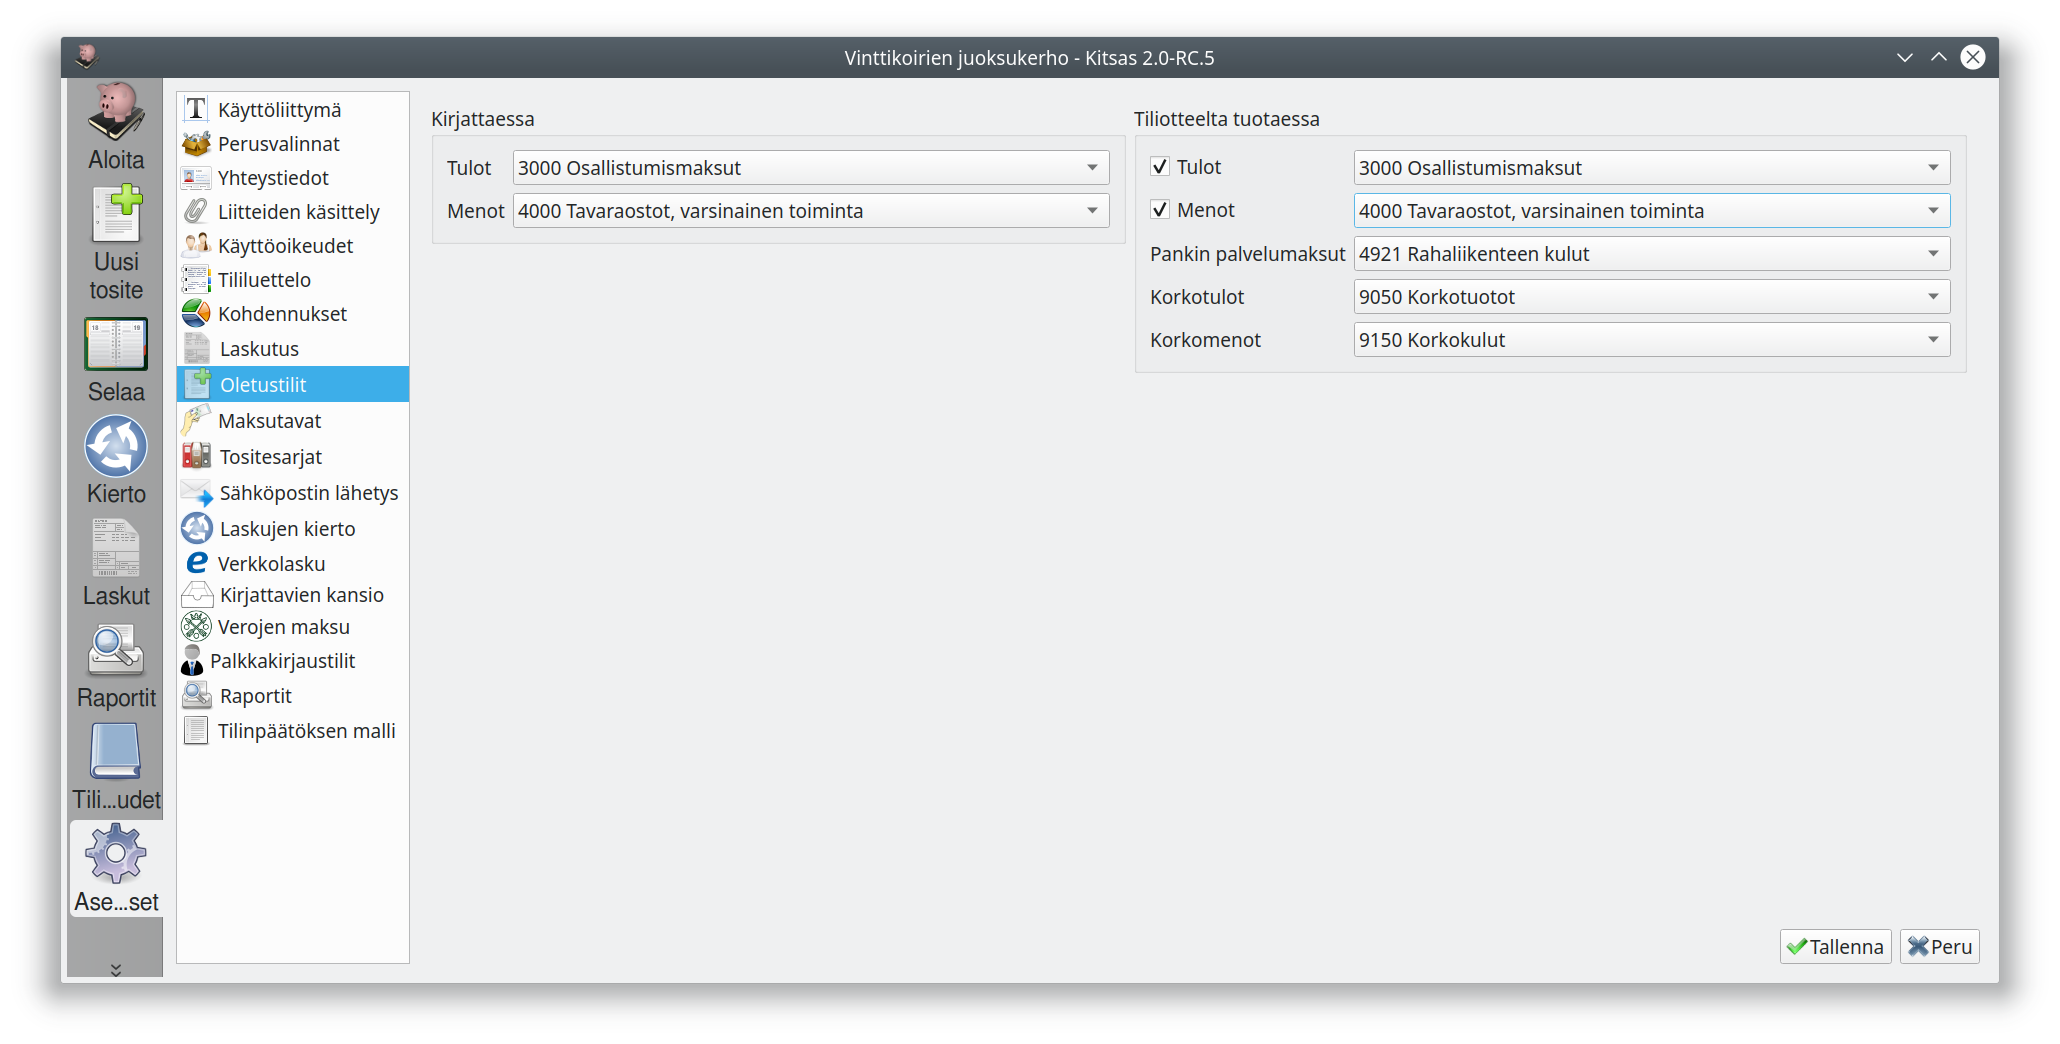
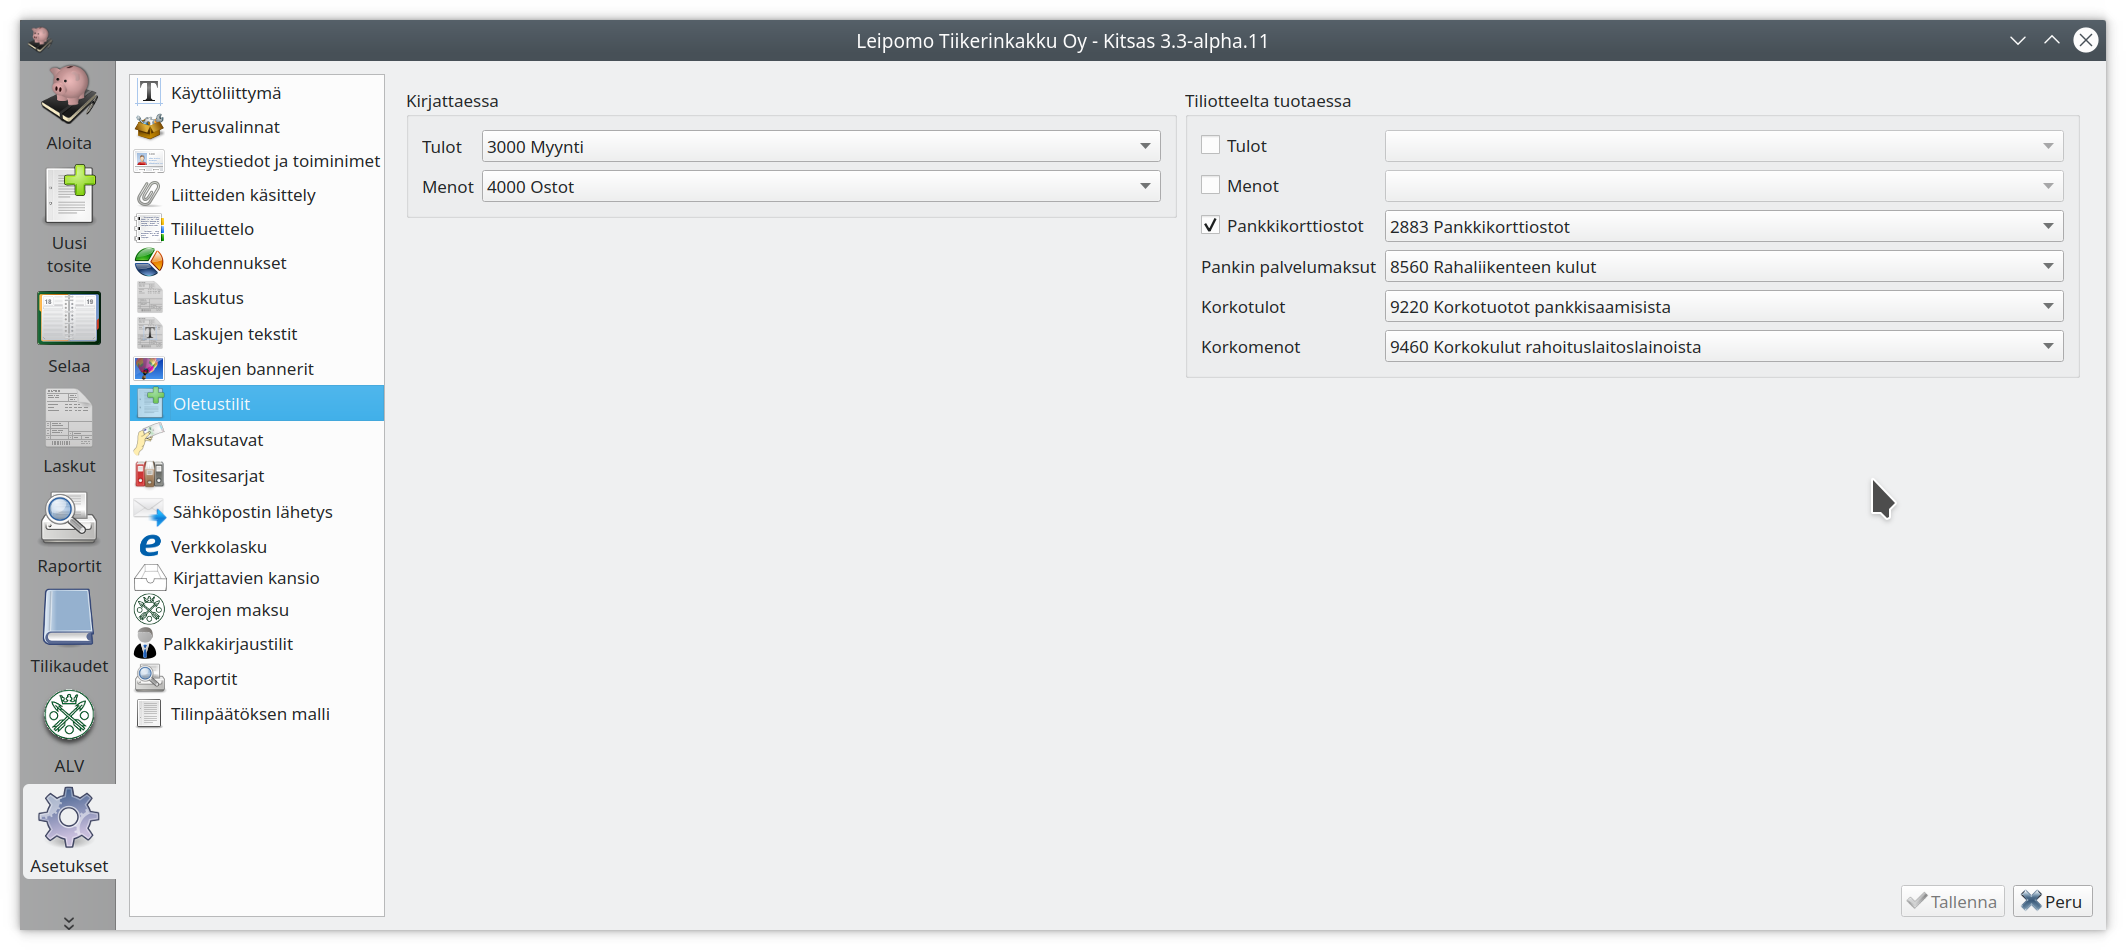
3.3

Changed region(s): [[0.0, 0.0, 0.9942, 1.0], [0.8699, 0.5189, 0.901, 0.5495]]

diff --git a/content/fi/_index.html b/content/fi/_index.html
@@ -6,9 +6,9 @@ linkTitle = "Kitsas"
 
 {{< blocks/cover title="Ystävällinen kirjanpitäjäsi" image_anchor="top" height="min" color="dark" >}}
 
-<div class="mx-auto">	
+<div class="mx-auto">
 	<a class="btn btn-lg btn-primary mr-3 mb-4" href="lataa">
-		Lataa Kitsas maksutta<i class="fab fa-windows ml-2 "></i><i class="fab fa-apple ml-2 "></i><i class="fab fa-linux ml-2 "></i>		
+		Lataa Kitsas maksutta<i class="fab fa-windows ml-2 "></i><i class="fab fa-apple ml-2 "></i><i class="fab fa-linux ml-2 "></i>
 	</a>
 	<p class="lead">Kitsas on ilmainen, kun tallennat kirjanpidon omalle koneellesi.<br/>
 	Pilvitallennus, käyttäjätuki ja lisäominaisuudet edullisena vuositilauksena.</p>
@@ -38,10 +38,10 @@ Kitsaasta löytyy myös tilikartta asunto-osakeyhtiöille ja vastikkeiden laskut
 
 {{< blocks/section color="white">}}
 
-	
+
 {{< nosto title="Eroon mapeista" image="kannettava" >}}
 Kitsas käsittelee ja arkisto sähköiset tositteet
-{{</nosto>}}		
+{{</nosto>}}
 
 {{< nosto title="Laskuta" image="lasku">}}
 Kitsaassa on sisäänrakennettu laskutus
@@ -77,6 +77,7 @@ Kitsaan ohjattu toiminto laskee poistot ja jaksotukset sekä muodostaa lopuksi v
 	<li><i class="fa fa-check"></i> Ostolaskujen kierrätys ja laskutusportaali</li>
 	<li><i class="fa fa-check"></i> WebKitsas</li>
 	<li><i class="fa fa-check"></i> Käyttäjätuki sähköpostilla</li>
+	<li><i class="fa fa-check"></i> Tilitietojen noutaminen suoraan pankista</li>
 </ul>
 		<a class="btn btn-lg btn-primary mr-3 mb-4" href="hinnat">
 		Katso hinnat
@@ -92,5 +93,5 @@ Kitsaan ohjattu toiminto laskee poistot ja jaksotukset sekä muodostaa lopuksi v
 	<h1 class="text-center">Uutta Kitsaassa</h1>
 </div>
 {{<recent_posts>}}
-{{<uutiskirje>}} 
+{{<uutiskirje>}}
 {{< /blocks/section >}}

diff --git a/content/fi/docs/asetukset/tilitapahtumat.md b/content/fi/docs/asetukset/tilitapahtumat.md
@@ -1,0 +1,56 @@
+---
+title: "Tilitapahtumien hakeminen pankista"
+linkTitle: "Tilitapahtumien hakeminen"
+weight: 155
+description: >
+  Päivittäinen tilitapahtumien noutaminen pankista PSD2-yhteydellä
+---
+
+<div class="cloud-only">
+  <i class="fa fa-cloud"></i> Ominaisuus on käytettävissä vain, kun kirjanpito on tallennettu Kitsaan pilveen <br/>
+  <i class="fa fa-gem"></i> Toiminto on lisämaksullinen hintaan 4,96 € kuukaudessa
+</div>  
+
+Edellisen päivän tilitapahtumat haetaan seuraavan aamuyön aikana ja niistä muodostetaan tosite. Viitteelliset maksut kohdennetaan automaattisesti avoimiin laskuihin.
+
+Tilitietojen hakeminen on toteutettu [PSD2-maksupalveludirektiivin](https://www.finanssivalvonta.fi/saantely/saantelykokonaisuudet/psd2/) mukaisena tilitietojen hakemisena, jossa tilitietopalveluiden tarjoana toimii [Nordigen](https://nordigen.com/en/). Toiminto on Kitsaan lisämaksullinen ominaisuus. Useimmat pankit (mm. Nordea ja Osuuspankit) eivät veloita tilin omistajaa PSD2-direktiivin mukaisesta tilitietojen noutamisesta.
+
+{{<alert title="Kokeilujakso ja laskutus">}}
+
+Tilitietojen noutamisen kokeilujakso alkaa ensimmäisestä onnistuneesta tilitapahtumien noutamisesta. Kokeilujakson jälkeen kuukausimaksu veloitetaan niiltä kuukausilta, joina tilitapahtumia noudetaan onnistuneesti (maksua ei siis peritä esimerkiksi kuukausilta, joilla ei ole lainkaan tilitapahtumia).
+
+Lisäpalveluiden käyttö laskutetaan jälkikäteen yhden tai useamman kuukauden ajanjaksolta, viimeistään kuitenkin vuoden lopussa.
+
+{{</alert>}}
+
+![](/img/fi/asetukset/tilitiedot.png)
+
+## Pankkiyhteyden lisääminen
+
+Varmista ennen pankkiyhteyden lisäämistä, että pankkitilille [on määritelty]({{<relref "./tililuettelo">}}) IBAN-numero.
+
+Paina **Lisää pankkiyhteys** ja hyväksy palvelun maksullisuus.
+
+Valitse pankki. Ohjelma näyttää linkin, jota klikkaamalla pääset verkkoselaimella hyväksymään valtuutuksen. Sinut ohjataan Nordigenin palvelun kautta oman pankkisi palveluun, jossa voit valita tilit, joiden tilitapahtumat välitetään Kitsaaseen. Älä sulje selainta ennen kuin saat ilmoituksen tilien lisäämisestä.
+
+### Huomautus Osuuspankin asiakkaille
+
+Ennen kuin voit ottaa tilitietojen hakemisen käyttöön, on pankin asiakaspalvelusta erikseen pyydettävä [käyttöoikeuksien PSD2 tilitietojen hakemiseen](https://www.op.fi/yritykset/digitaaliset-palvelut-yrityksille/ulkopuolisen-palvelutarjoajan-valtuuttaminen) henkilölle, joka aktivoi pankkitunnuksillaan tilitietojen hakemisen.
+
+## Tilitietojen noutaminen
+
+Edellisen päivän tilitiedot noudetaan aina aamuyöllä. Voit myös **Nouda tapahtumia**-napilla hakea aiempia, enintään 90 päivää vanhoja tilitapahtumia.
+
+Ohjelma näyttää luettelon viimeisimmistä tilitapahtumien noutamisista ja mahdollisista virheistä. Klikkaamalla onnistuneen noudon riviä pääset tilitapahtumiin liittyvään tositteeseen.
+
+## Tilitapahtumien käsittely
+
+Kitsas pyrkii kohdentamaan tilitapahtumat mm. viitenumeron perusteella. Ellei ohjelma pysty kohdentamaan kaikkia tilitapahtumia, näytetään aloitussivulla ilmoitus siitä, että kirjanpidossa on käsiteltäviä tiliotteita.
+
+![](/img/fi/asetukset/tilioimatta.png)
+
+Nämä keskeneräiset tiliotteet näkyvät selauksessa punaisella, merkittyinä oranssilla huomiopallolla. Kirjanpito ei täsmää ennen kuin nämä tiliotteet on käsitelty.
+
+## Valtuutuksen uudistaminen
+
+Valtuutus tilitapahtumien hakemiseen on kerrallaan voimassa kolme kuukautta. Ohjelma muistuttaa lähenevästä valtuutuksen vanhenemisesta, jolloin **Uudista valtuutus**-napilla pääset jatkamaan valtuutusta jälleen kolmen kuukauden ajaksi. Sinut ohjataan Nordigenin palvelun kautta omaan verkkopankkiisi samalla tavalla kuin pankkiyhteyttä lisättäessä.

diff --git a/content/fi/hinnat/_index.md b/content/fi/hinnat/_index.md
@@ -32,7 +32,7 @@ Ennen tilauksen tekemistä ehdit siis varmistua, että palvelu todella vastaa od
 
 **Ilmaiseksi** ohjelmaa saa käyttää, kun kirjanpidon tallentaa omalle koneelle. Emme kuitenkaan voi tarjota ilmaiskäyttäjille henkilökohtaista neuvontaa, ja käyttäjän pitää huolehtia itse kirjanpitonsa varmuuskopioinnista.
 
-**Kitsas Kerho** sopii yhdistyksille ja asunto-osakeyhtiöille, joilla ei ole arvonlisäverollista toimintaa. Lisäksi se sopii yrityksille, jotka tallentavat kirjanpidon omalle koneelleen, mutta haluavat hyödyntää tukipalveluita ja sähköistä laskutusta.
+**Kitsas Kerho** sopii yhdistyksille ja asunto-osakeyhtiöille, joilla ei ole arvonlisäverollista toimintaa. 
 
 **Kitsas Firma** tarjoaa myös yrityskäyttäjille kirjanpidon tallentamisen pilveen, jolloin sillä voi olla monta käyttäjää samaan aikaan.
 
@@ -167,6 +167,12 @@ Ennen tilauksen tekemistä ehdit siis varmistua, että palvelu todella vastaa od
       <td class="default"><span class="tick">&#10004;</span></td>
     </tr>       
     <tr>
+      <td>Sähköpostin lähettäminen Kitsaan palvelimen kautta</td>
+      <td></td>
+      <td><span class="tick">&#10004;</span></td>
+      <td class="default"><span class="tick">&#10004;</span></td>
+    </tr>     
+    <tr>
       <td>Kirjanpidon automaattinen varmuuskopiointi</td>
       <td></td>
       <td><span class="tick">&#10004;</span></td>
@@ -187,23 +193,30 @@ Ennen tilauksen tekemistä ehdit siis varmistua, että palvelu todella vastaa od
       <td><span class="tick">&#10004;</span></td>
       <td class="default"><span class="tick">&#10004;</span></td>
     </tr>
+    <tr>
+      <td colspan="4" class="sep"><i class="fa fa-gem"></i> Lisämaksulliset palvelut</td>
+    </tr>
+    <tr>
+      <td>Lisäkirjanpito tallennettuna Kitsaan pilveen (sis. alv)</td>
+      <td> </td>
+      <td><span class="txt-l">3,72</span> <span class="txt-top">&euro;/kk</span></td>
+      <td class="default"><span class="txt-l">3,72</span> <span class="txt-top">&euro;/kk</span></td>
+    </tr>    
+    <tr>
+      <td>Tilitietojen noutaminen pankista (sis. alv), kirjanpitokohtainen</td>
+      <td> </td>
+      <td><span class="txt-l">4,96</span> <span class="txt-top">&euro;/kk</span></td>
+      <td class="default"><span class="txt-l">4,96</span> <span class="txt-top">&euro;/kk</span></td>
+    </tr>        
   </tbody>
 </table>
-
-<p><sup>* </sup> Olemme varanneet kirjanpitoa kohden tallennustilaa 2,5 Gt. Tämä riittää tavanomaisesti noin 10 000 sähköisen tositteen tallentamiseen. Lisätilasta perimme <b>10 €</b>/Gt/vuosi.</p>
+<p>Lisämaksulliset palvelut veloitetaan jälkikäteen 1 - 12 kuukauden jaksoissa niin, että pienin veloitettava summa kesken vuotta on 20 euroa.</p>
+<p><sup>* </sup> Olemme varanneet kirjanpitoa kohden tallennustilaa 2,5 Gt. Tämä riittää tavanomaisesti noin 10 000 sähköisen tositteen tallentamiseen. Lisätilasta perimme <b>1 €</b>/Gt/kk.</p>
 <p><sup>** </sup> Verkkolaskuoperaattori perii verkkolaskujen lähettämisestä ja vastaanottamisesta oman hinnastonsa mukaisesti. Kitsaassa on suora integraatio Maventan verkkolaskuihin, muiden operaattoreiden kanssa laskutiedoja voidaan joutua siirtämään osittain käsityönä.</p>
 
 </article>
 <div class="hintaloppuinfo">
 
-### Lisäkirjanpito
-
-Samalla laskulla laskutettava lisäkirjanpito <b>40</b> €/vuosi (32,26 € + alv 24 %)
-
-### Tilitoimistopaketti
-
-Kymmenen verkkoon tallennettavaa kirjanpitoa kaikilla toiminnoilla <b>372</b> € / vuosi (300 € + alv 24 %).  
-Tilitoimistopaketissa voit luoda kirjanpitoja joustavasti. Lisäkirjanpidot maksavat <b>2,48 €/kk</b> (2,00 € + alv 24%), ja ne veloitetaan jälkikäteen 1&ndash;2 kertaa vuodessa.
 
 ### Tuntityöveloitus
 

diff --git a/content/fi/docs/asetukset/bannerit.md b/content/fi/docs/asetukset/bannerit.md
@@ -1,0 +1,26 @@
+---
+title: "Laskujen bannerit"
+linkTitle: "Laskujen bannerit"
+weight: 97
+keywords: ["laskutus","banneri"]
+description: >
+  Laskuihin tulostettavien mainosbannereiden määritteleminen
+---
+
+![](/img/fi/asetukset/mallibanneri.png)
+
+Laskuille on mahdollista tulostaa osoitealueen alapuolelle kuva, jota voi käyttää markkinointiviestintään.
+
+Kuva voi olla jpg- tai png-tiedostomuodossa, ja kuvan korkeus saa olla enintään kolmasosan verran kuvan leveydestä. Banneri tulostetaan aina koko sivun levyisenä.
+
+![](/img/fi/asetukset/bannerit.png)
+
+**Uusi banneri** -napista pääset lisäämään bannerin.
+
+![](/img/fi/asetukset/banneridialogi.png)
+
+Valitse ensin bannerin kuvatiedosto ja kirjoita bannerille nimi, jokä näytetään bannereita valittaessa. Bannerin nimi ei tulostu laskulle.
+
+Kun bannereita on käytettävissä, valitaan laskua luotaessa laskulle tuleva banneri laskun muokkausikkunan valintalistasta:
+
+![](/img/fi/asetukset/bannerivalinta.png)

diff --git a/content/fi/blog/uutiset/paivitys33ohje.md b/content/fi/blog/uutiset/paivitys33ohje.md
@@ -42,6 +42,8 @@ Saatetekstissä olisi hyvä antaa myös yhteystiedot asiakkaalle laskua koskevia
 
 ## Muita parannuksia tässä versiossa
 
+- [Tilitiedot voidaan noutaa pankista pilveen tallennettuun kirjanpitoon](/docs/asetukset/tilitapahtumat/)
+- [Laskulle voidaan tulostaa bannerikuva](/docs/asetukset/bannerit/)
 - Maventan verkkolaskutuksen kautta lähetettäviin verkkolaskuihin liitetään nyt Kitsaalla luotu laskun kuva. Laskuihin voi lisätä nyt myös liitetiedostoja, jotka välitetään sähköpostin tai Maventan verkkolaskun liitteinä.
 - Laskun voi lähettää sähköpostilla useampaan osoitteeseen erottelemalla ne pilkulla.
 - Pilveen tallennetuissa kirjanpidoissa voidaan laskujen lähettämiseen käyttää Kitsaan palvelinta, jolloin ei tarvitse enää tietää oman smtp-palvelimen asetuksia.

diff --git a/content/fi/docs/asetukset/oletustilit.md b/content/fi/docs/asetukset/oletustilit.md
@@ -16,4 +16,6 @@ description: >
 
 **Tulot** ja **menot** määrittelevät oletustiliöinnin tiliotteelta löydetyille tuloille ja menoille silloin, kun niille ei ole viitenumeron tai maksajan perusteella tunnistettu muuta tiliä (eli niitä ei ole voitu kohdentaa millekään laskulle). Jos näitä ei ole valittuina, ei tällaisille riveille tehdä oletustiliöintiä.
 
+**Pankkikorttiostot** määrittelee vastaavasti tilin tiliotteelta tuotaville pankkikorttiostoille.
+
 **Pankin palvelumaksut**, **korkotulot** ja **korkomenot** määrittelee tilit, joille kohdennetaan tiliotteiden rivejä tiliotteella olevan tapahtumatyypin perusteella.

diff --git a/content/fi/docs/laskutus/luominen/yksityiskohdat.md b/content/fi/docs/laskutus/luominen/yksityiskohdat.md
@@ -116,6 +116,10 @@ Laskutusjakso
 
 Otsikko tulostetaan laskulle, ja se toimii myös tositteen otsikkona kirjanpidossa.
 
+### Banneri
+
+Jos [bannereita]({{<relref "../../asetukset/bannerit">}}) eli laskulle tulostuvia leveitä markkinointikuvia on käytettävissä, pääset valitsemaan valintalistasta laskulle tulostettavan bannerin.
+
 ### Laskun rivit
 
 ![Laskun rivit](/img/fi/laskutus/luominen/rivit.png)
